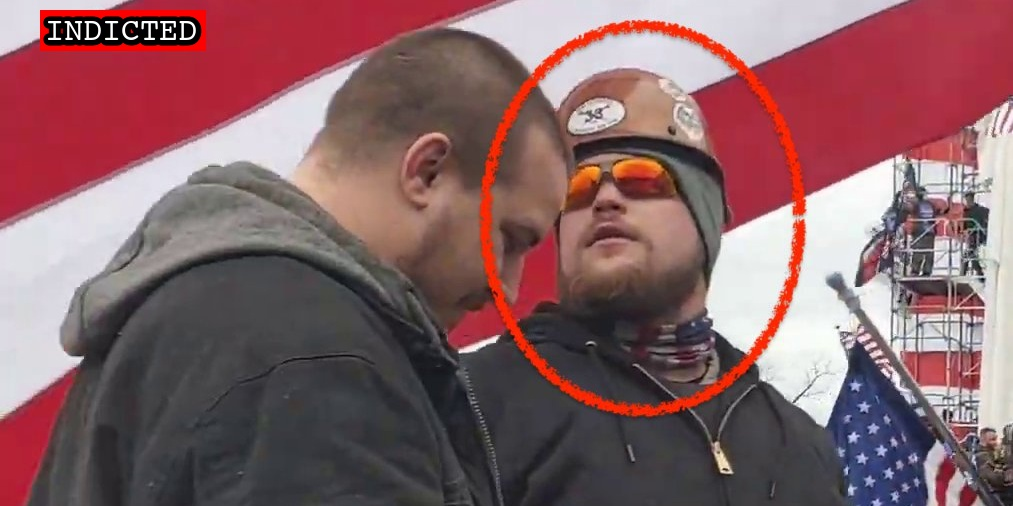
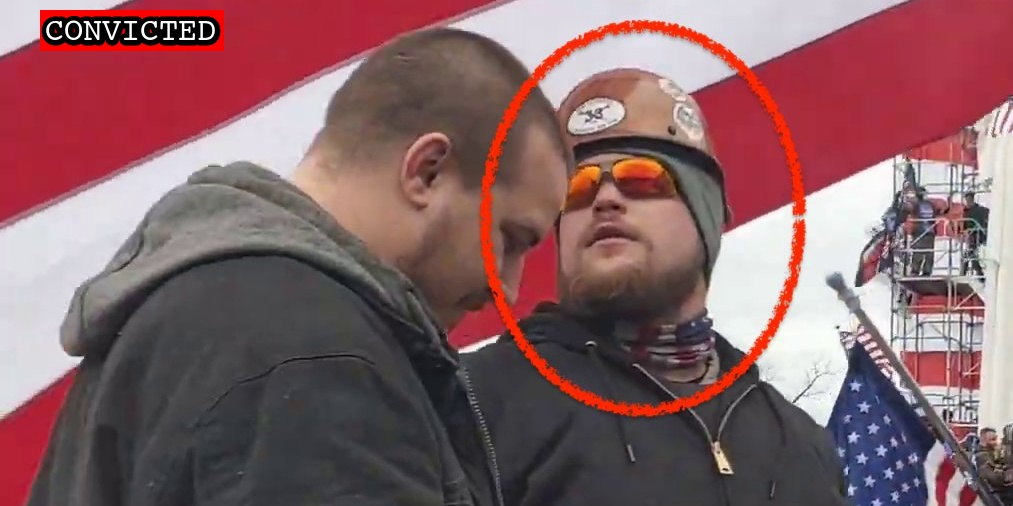
Latest plea deals

Changed region(s): [[0.0306, 0.0, 0.2448, 0.1186]]

diff --git a/docs/_suspects/cody-mattice.md b/docs/_suspects/cody-mattice.md
@@ -4,15 +4,17 @@ lastName: Mattice
 hashtag: FenceSnatcher
 aka:
 residence: New York
-status: Indicted
+status: Convicted
 date: 2021-10-05
 charged: 2021-10-05
 indicted: 2021-11-05
-convicted:
+convicted: 2022-04-22
+acquitted:
 sentenced:
 dismissed:
 deceased:
-plea_hearing:
+plea_hearing: 2022-04-22
+trial_date:
 sentencing:
 age: 28
 occupation:
@@ -34,8 +36,13 @@ published: true
 caseNumber: 1:21-mj-622
 videos:
 charges:
+  - code: 18 USC § 111(a)(1)
+    title: Assaulting, resisting, or impeding certain officers or employees
+    url: https://www.law.cornell.edu/uscode/text/18/111
+    felony: true
 sentence:
 ---
+
 - [News Report](https://www.huffpost.com/entry/cody-mattice-james-mault-capitol-attack-trump_n_61620bbde4b0fc312c97ca8b)
 - [Complaint](https://www.justice.gov/usao-dc/case-multi-defendant/file/1441376/download)
 - [Detention Order](https://extremism.gwu.edu/sites/g/files/zaxdzs2191/f/Cody%20Mattice%20Detention%20Order.pdf)

diff --git a/docs/_suspects/james-mault.md b/docs/_suspects/james-mault.md
@@ -4,15 +4,17 @@ lastName: Mault
 hashtag: IronWorkerGuy
 aka:
 residence: New York
-status: Indicted
+status: Convicted
 date: 2021-10-05
 charged: 2021-10-05
 indicted: 2021-11-05
-convicted:
+convicted: 2022-04-22
+acquitted:
 sentenced:
 dismissed:
 deceased:
-plea_hearing: 2022-04-08
+plea_hearing: 2022-04-22
+trial_date:
 sentencing:
 age:
 occupation: Ironworker
@@ -34,6 +36,10 @@ published: true
 caseNumber: 1:21-mj-622
 videos:
 charges:
+  - code: 18 USC § 111(a)(1)
+    title: Assaulting, resisting, or impeding certain officers or employees
+    url: https://www.law.cornell.edu/uscode/text/18/111
+    felony: true
 sentence:
 ---
 
